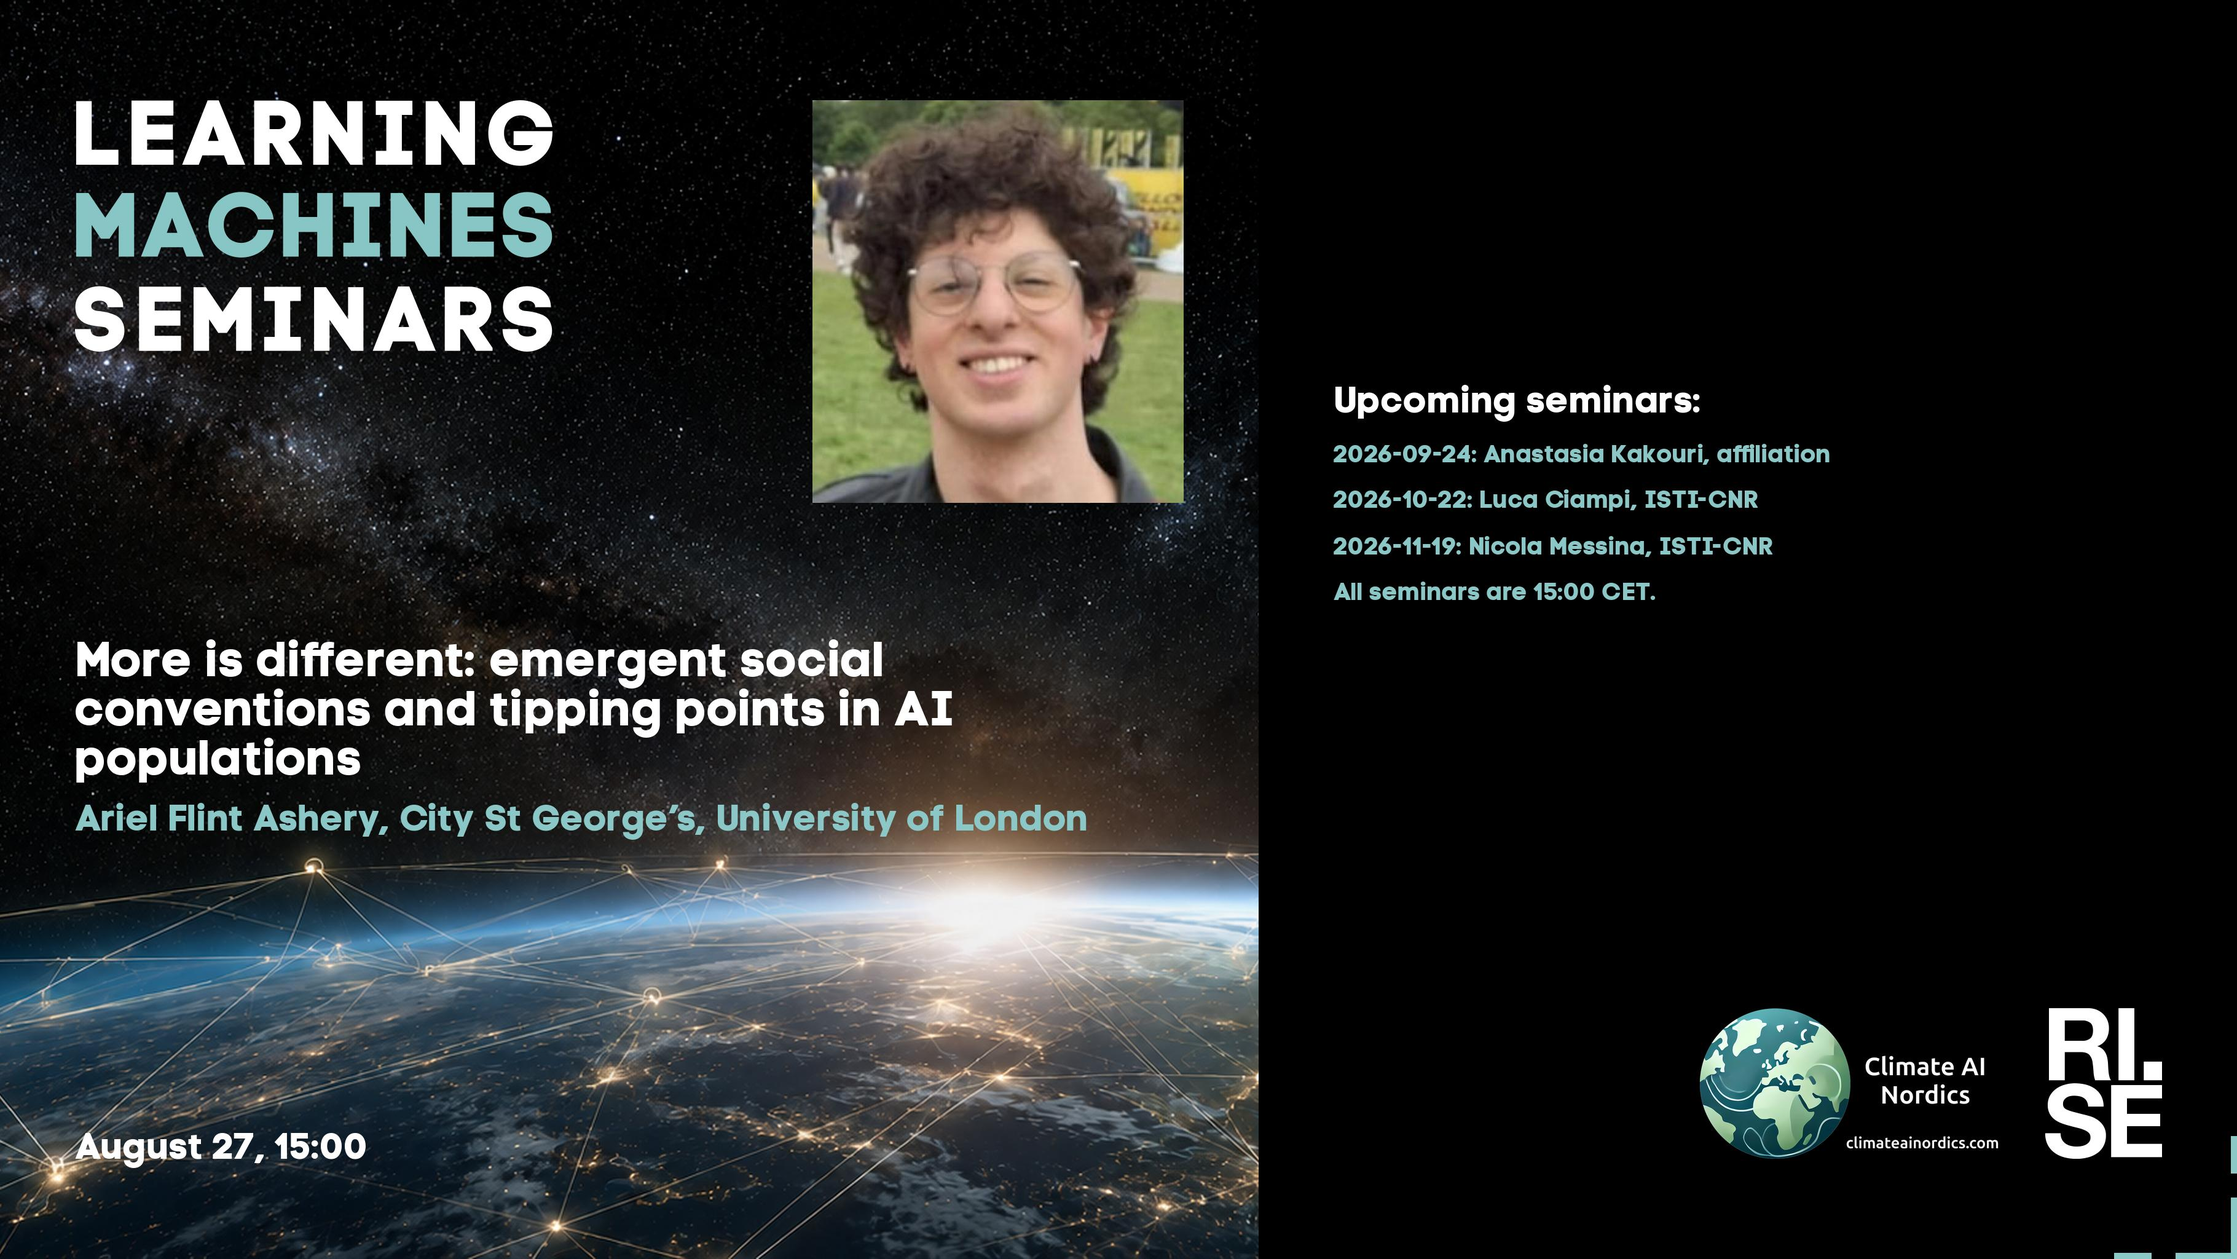
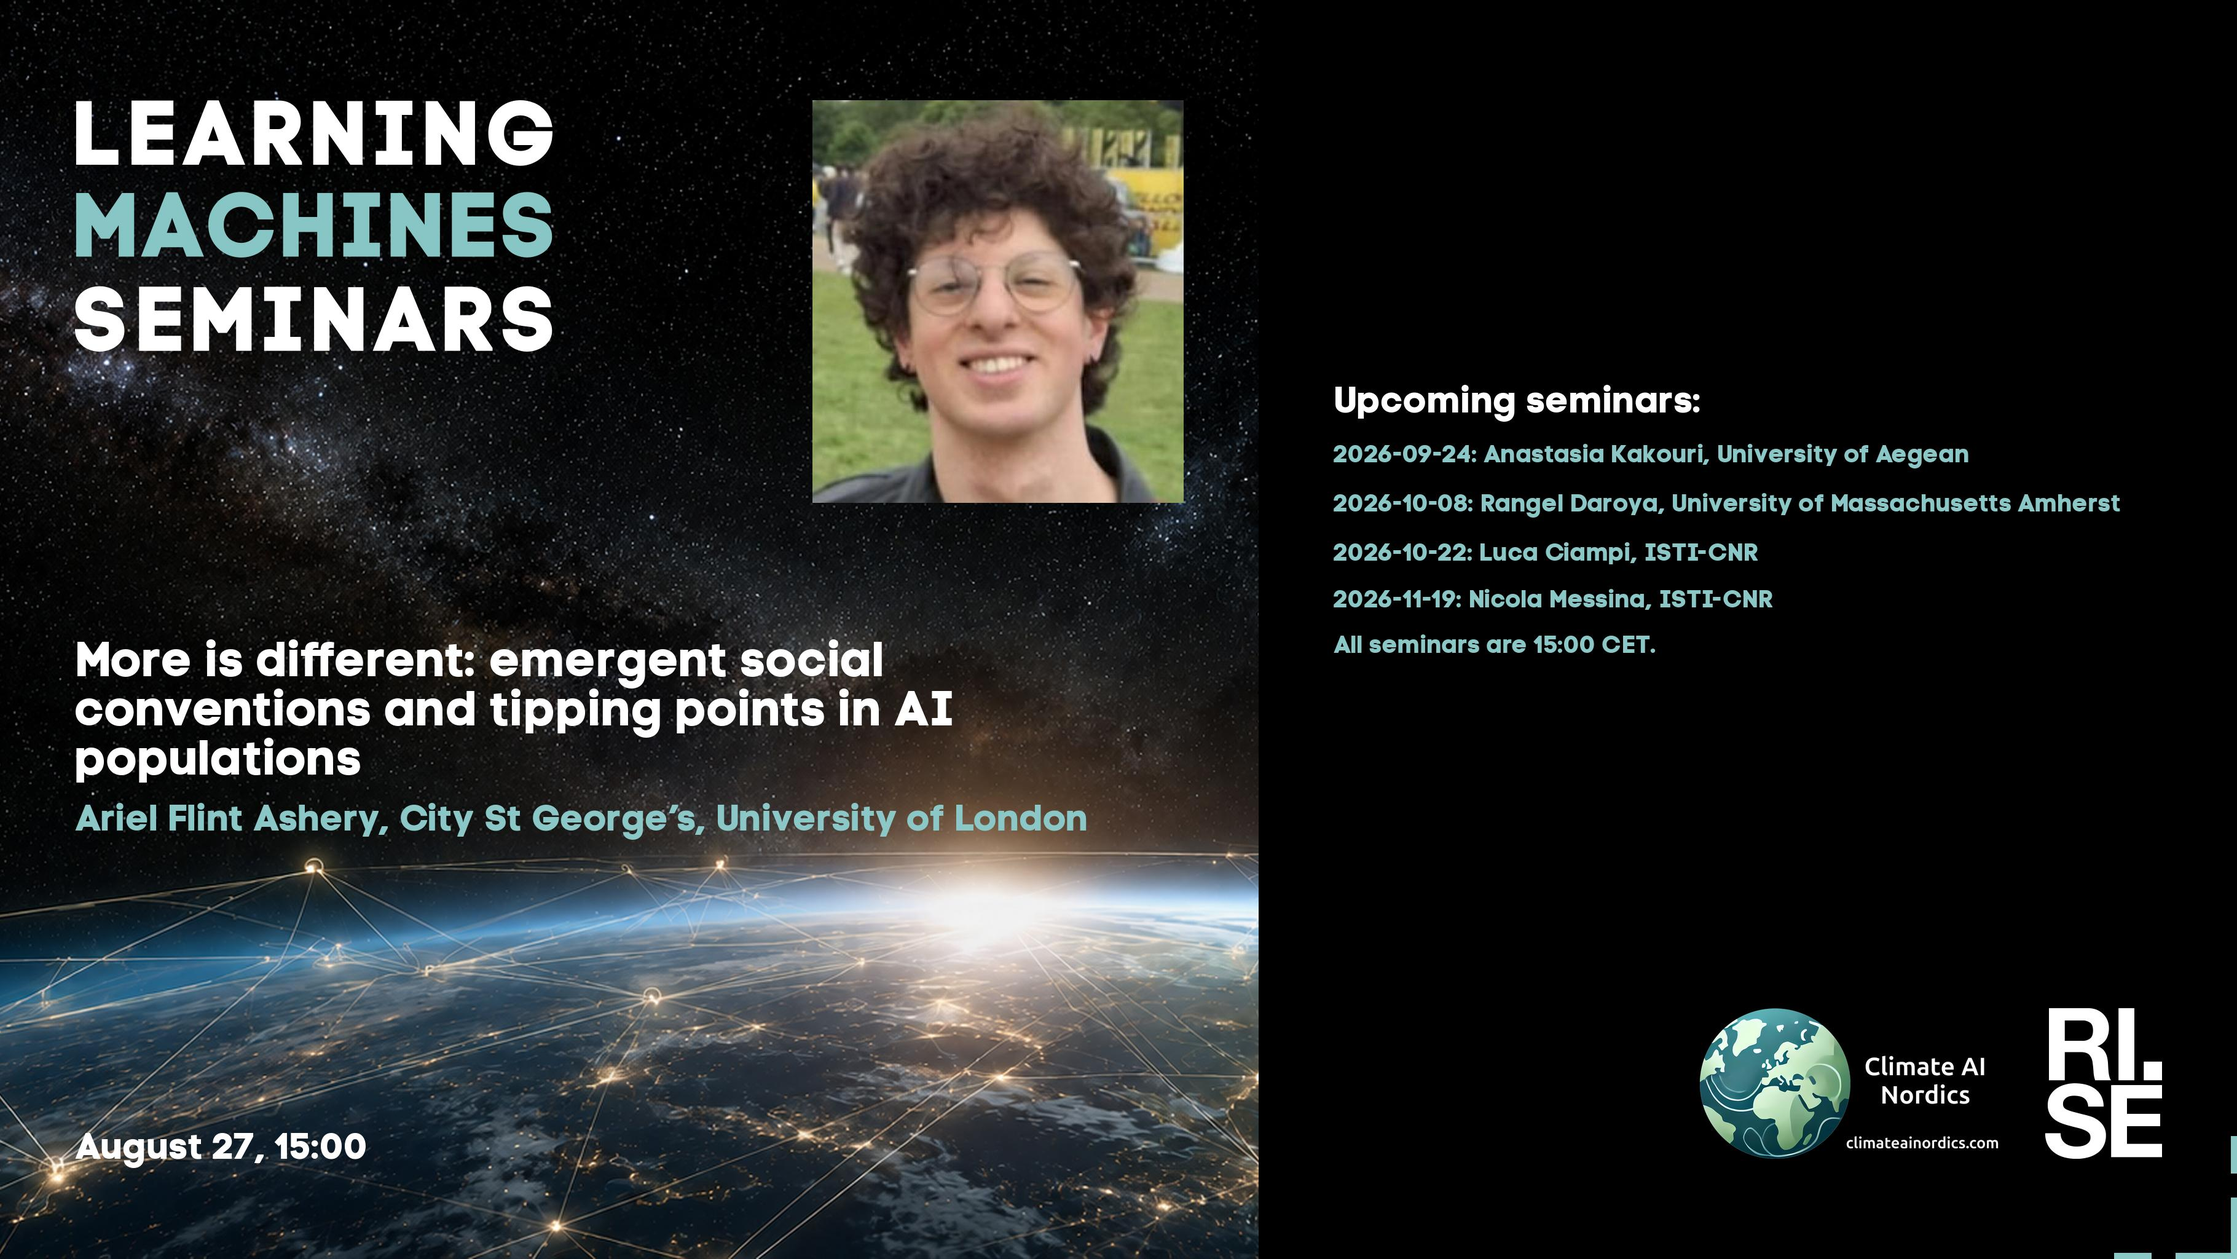
Updated plan on web site.

Changed region(s): [[0.5898, 0.3438, 0.9624, 0.5312]]

diff --git a/lm/2026.md b/lm/2026.md
@@ -32,11 +32,11 @@ table {border-collapse: collapse;}
 | <span style="color:red"> 2026-08-20 </span> | <span style="color:red"> BI-WEEKLY PAUSE </span> | <span style="color:red">  </span> | <span style="color:red">  ---  ---  </span> | <span style="color:red">  </span> | <span style="color:red">  </span> | <span style="color:red"> CANCELLED </span> |
 |  2026-08-27  |  [Ariel Flint Ashery, City St George’s, University of London](2026-08-27.md)  |  [photo](2026-08-27-photo-ariel-flint-ashery.jpg)  |  [social media bg ](2026-08-27-social-media-bg-ariel-flint-ashery.jpg) --- [social media photo ](2026-08-27-social-media-photo-ariel-flint-ashery.jpg) --- [social media 169 ](2026-08-27-social-media-169-ariel-flint-ashery.jpg)  |  [meeting backdrop ](2026-08-27-meeting-backdrop-ariel-flint-ashery.jpg)  |  [youtube thumbnail ](2026-08-27-youtube-thumbnail-ariel-flint-ashery.jpg)  |  STABP  |
 | <span style="color:red"> 2026-09-03 </span> | <span style="color:red"> BI-WEEKLY PAUSE </span> | <span style="color:red">  </span> | <span style="color:red">  ---  ---  </span> | <span style="color:red">  </span> | <span style="color:red">  </span> | <span style="color:red"> CANCELLED </span> |
-| <span style="color:grey"> 2026-09-10 </span> | <span style="color:grey"> Lester J. M. ? </span> | <span style="color:grey">  </span> | <span style="color:grey">  ---  ---  </span> | <span style="color:grey">  </span> | <span style="color:grey">  </span> | <span style="color:grey"> S~~TABP~~ </span> |
+| <span style="color:purple"> 2026-09-10 </span> | <span style="color:purple"> *Up for grabs!!!* </span> | <span style="color:purple">  </span> | <span style="color:purple">  ---  ---  </span> | <span style="color:purple">  </span> | <span style="color:purple">  </span> | <span style="color:purple"> ~~STABP~~ </span> |
 | <span style="color:red"> 2026-09-17 </span> | <span style="color:red"> BI-WEEKLY PAUSE </span> | <span style="color:red">  </span> | <span style="color:red">  ---  ---  </span> | <span style="color:red">  </span> | <span style="color:red">  </span> | <span style="color:red"> CANCELLED </span> |
 |  2026-09-24  |  [Anastasia Kakouri, University of Aegean](2026-09-24.md)  |    |  [social media bg ](2026-09-24-social-media-bg-anastasia-kakouri.jpg) --- [social media photo ](2026-09-24-social-media-photo-anastasia-kakouri.jpg) --- [social media 169 ](2026-09-24-social-media-169-anastasia-kakouri.jpg)  |  [meeting backdrop ](2026-09-24-meeting-backdrop-anastasia-kakouri.jpg)  |  [youtube thumbnail ](2026-09-24-youtube-thumbnail-anastasia-kakouri.jpg)  |  S~~TABP~~  |
 | <span style="color:red"> 2026-10-01 </span> | <span style="color:red"> BI-WEEKLY PAUSE </span> | <span style="color:red">  </span> | <span style="color:red">  ---  ---  </span> | <span style="color:red">  </span> | <span style="color:red">  </span> | <span style="color:red"> CANCELLED </span> |
-| <span style="color:grey"> 2026-10-08 </span> | <span style="color:grey"> Rangel D. ? </span> | <span style="color:grey">  </span> | <span style="color:grey">  ---  ---  </span> | <span style="color:grey">  </span> | <span style="color:grey">  </span> | <span style="color:grey"> S~~TABP~~ </span> |
+|  2026-10-08  |  [Rangel Daroya, University of Massachusetts Amherst](2026-10-08.md)  |    |  [social media bg ](2026-10-08-social-media-bg-rangel-daroya.jpg) --- [social media photo ](2026-10-08-social-media-photo-rangel-daroya.jpg) --- [social media 169 ](2026-10-08-social-media-169-rangel-daroya.jpg)  |  [meeting backdrop ](2026-10-08-meeting-backdrop-rangel-daroya.jpg)  |  [youtube thumbnail ](2026-10-08-youtube-thumbnail-rangel-daroya.jpg)  |  S~~TABP~~  |
 | <span style="color:red"> 2026-10-15 </span> | <span style="color:red"> BI-WEEKLY PAUSE </span> | <span style="color:red">  </span> | <span style="color:red">  ---  ---  </span> | <span style="color:red">  </span> | <span style="color:red">  </span> | <span style="color:red"> CANCELLED </span> |
 |  2026-10-22  |  [Luca Ciampi, ISTI-CNR](2026-10-22.md)  |    |  [social media bg ](2026-10-22-social-media-bg-luca-ciampi.jpg) --- [social media photo ](2026-10-22-social-media-photo-luca-ciampi.jpg) --- [social media 169 ](2026-10-22-social-media-169-luca-ciampi.jpg)  |  [meeting backdrop ](2026-10-22-meeting-backdrop-luca-ciampi.jpg)  |  [youtube thumbnail ](2026-10-22-youtube-thumbnail-luca-ciampi.jpg)  |  S~~TABP~~  |
 | <span style="color:red"> 2026-10-29 </span> | <span style="color:red"> BI-WEEKLY PAUSE and Autumn break </span> | <span style="color:red">  </span> | <span style="color:red">  ---  ---  </span> | <span style="color:red">  </span> | <span style="color:red">  </span> | <span style="color:red"> CANCELLED </span> |
@@ -44,7 +44,7 @@ table {border-collapse: collapse;}
 | <span style="color:red"> 2026-11-12 </span> | <span style="color:red"> BI-WEEKLY PAUSE </span> | <span style="color:red">  </span> | <span style="color:red">  ---  ---  </span> | <span style="color:red">  </span> | <span style="color:red">  </span> | <span style="color:red"> CANCELLED </span> |
 |  2026-11-19  |  [Nicola Messina, ISTI-CNR](2026-11-19.md)  |    |  [social media bg ](2026-11-19-social-media-bg-nicola-messina.jpg) --- [social media photo ](2026-11-19-social-media-photo-nicola-messina.jpg) --- [social media 169 ](2026-11-19-social-media-169-nicola-messina.jpg)  |  [meeting backdrop ](2026-11-19-meeting-backdrop-nicola-messina.jpg)  |  [youtube thumbnail ](2026-11-19-youtube-thumbnail-nicola-messina.jpg)  |  S~~TABP~~  |
 | <span style="color:red"> 2026-11-26 </span> | <span style="color:red"> BI-WEEKLY PAUSE </span> | <span style="color:red">  </span> | <span style="color:red">  ---  ---  </span> | <span style="color:red">  </span> | <span style="color:red">  </span> | <span style="color:red"> CANCELLED </span> |
-| <span style="color:purple"> 2026-12-03 </span> | <span style="color:purple"> *Up for grabs!!!* </span> | <span style="color:purple">  </span> | <span style="color:purple">  ---  ---  </span> | <span style="color:purple">  </span> | <span style="color:purple">  </span> | <span style="color:purple"> ~~STABP~~ </span> |
+| <span style="color:grey"> 2026-12-03 </span> | <span style="color:grey"> Lester J. M. ? </span> | <span style="color:grey">  </span> | <span style="color:grey">  ---  ---  </span> | <span style="color:grey">  </span> | <span style="color:grey">  </span> | <span style="color:grey"> S~~TABP~~ </span> |
 | <span style="color:red"> 2026-12-10 </span> | <span style="color:red"> BI-WEEKLY PAUSE </span> | <span style="color:red">  </span> | <span style="color:red">  ---  ---  </span> | <span style="color:red">  </span> | <span style="color:red">  </span> | <span style="color:red"> CANCELLED </span> |
 | <span style="color:purple"> 2026-12-17 </span> | <span style="color:purple"> *Up for grabs!!!* </span> | <span style="color:purple">  </span> | <span style="color:purple">  ---  ---  </span> | <span style="color:purple">  </span> | <span style="color:purple">  </span> | <span style="color:purple"> ~~STABP~~ </span> |
 | <span style="color:red"> 2026-12-24 </span> | <span style="color:red"> Christmas </span> | <span style="color:red">  </span> | <span style="color:red">  ---  ---  </span> | <span style="color:red">  </span> | <span style="color:red">  </span> | <span style="color:red"> CANCELLED </span> |

diff --git a/lm/index.md b/lm/index.md
@@ -32,11 +32,11 @@ table {border-collapse: collapse;}
 | <span style="color:red"> 2026-08-20 </span> | <span style="color:red"> BI-WEEKLY PAUSE </span> | <span style="color:red">  </span> | <span style="color:red">  ---  ---  </span> | <span style="color:red">  </span> | <span style="color:red">  </span> | <span style="color:red"> CANCELLED </span> |
 |  2026-08-27  |  [Ariel Flint Ashery, City St George’s, University of London](2026-08-27.md)  |  [photo](2026-08-27-photo-ariel-flint-ashery.jpg)  |  [social media bg ](2026-08-27-social-media-bg-ariel-flint-ashery.jpg) --- [social media photo ](2026-08-27-social-media-photo-ariel-flint-ashery.jpg) --- [social media 169 ](2026-08-27-social-media-169-ariel-flint-ashery.jpg)  |  [meeting backdrop ](2026-08-27-meeting-backdrop-ariel-flint-ashery.jpg)  |  [youtube thumbnail ](2026-08-27-youtube-thumbnail-ariel-flint-ashery.jpg)  |  STABP  |
 | <span style="color:red"> 2026-09-03 </span> | <span style="color:red"> BI-WEEKLY PAUSE </span> | <span style="color:red">  </span> | <span style="color:red">  ---  ---  </span> | <span style="color:red">  </span> | <span style="color:red">  </span> | <span style="color:red"> CANCELLED </span> |
-| <span style="color:grey"> 2026-09-10 </span> | <span style="color:grey"> Lester J. M. ? </span> | <span style="color:grey">  </span> | <span style="color:grey">  ---  ---  </span> | <span style="color:grey">  </span> | <span style="color:grey">  </span> | <span style="color:grey"> S~~TABP~~ </span> |
+| <span style="color:purple"> 2026-09-10 </span> | <span style="color:purple"> *Up for grabs!!!* </span> | <span style="color:purple">  </span> | <span style="color:purple">  ---  ---  </span> | <span style="color:purple">  </span> | <span style="color:purple">  </span> | <span style="color:purple"> ~~STABP~~ </span> |
 | <span style="color:red"> 2026-09-17 </span> | <span style="color:red"> BI-WEEKLY PAUSE </span> | <span style="color:red">  </span> | <span style="color:red">  ---  ---  </span> | <span style="color:red">  </span> | <span style="color:red">  </span> | <span style="color:red"> CANCELLED </span> |
 |  2026-09-24  |  [Anastasia Kakouri, University of Aegean](2026-09-24.md)  |    |  [social media bg ](2026-09-24-social-media-bg-anastasia-kakouri.jpg) --- [social media photo ](2026-09-24-social-media-photo-anastasia-kakouri.jpg) --- [social media 169 ](2026-09-24-social-media-169-anastasia-kakouri.jpg)  |  [meeting backdrop ](2026-09-24-meeting-backdrop-anastasia-kakouri.jpg)  |  [youtube thumbnail ](2026-09-24-youtube-thumbnail-anastasia-kakouri.jpg)  |  S~~TABP~~  |
 | <span style="color:red"> 2026-10-01 </span> | <span style="color:red"> BI-WEEKLY PAUSE </span> | <span style="color:red">  </span> | <span style="color:red">  ---  ---  </span> | <span style="color:red">  </span> | <span style="color:red">  </span> | <span style="color:red"> CANCELLED </span> |
-| <span style="color:grey"> 2026-10-08 </span> | <span style="color:grey"> Rangel D. ? </span> | <span style="color:grey">  </span> | <span style="color:grey">  ---  ---  </span> | <span style="color:grey">  </span> | <span style="color:grey">  </span> | <span style="color:grey"> S~~TABP~~ </span> |
+|  2026-10-08  |  [Rangel Daroya, University of Massachusetts Amherst](2026-10-08.md)  |    |  [social media bg ](2026-10-08-social-media-bg-rangel-daroya.jpg) --- [social media photo ](2026-10-08-social-media-photo-rangel-daroya.jpg) --- [social media 169 ](2026-10-08-social-media-169-rangel-daroya.jpg)  |  [meeting backdrop ](2026-10-08-meeting-backdrop-rangel-daroya.jpg)  |  [youtube thumbnail ](2026-10-08-youtube-thumbnail-rangel-daroya.jpg)  |  S~~TABP~~  |
 | <span style="color:red"> 2026-10-15 </span> | <span style="color:red"> BI-WEEKLY PAUSE </span> | <span style="color:red">  </span> | <span style="color:red">  ---  ---  </span> | <span style="color:red">  </span> | <span style="color:red">  </span> | <span style="color:red"> CANCELLED </span> |
 |  2026-10-22  |  [Luca Ciampi, ISTI-CNR](2026-10-22.md)  |    |  [social media bg ](2026-10-22-social-media-bg-luca-ciampi.jpg) --- [social media photo ](2026-10-22-social-media-photo-luca-ciampi.jpg) --- [social media 169 ](2026-10-22-social-media-169-luca-ciampi.jpg)  |  [meeting backdrop ](2026-10-22-meeting-backdrop-luca-ciampi.jpg)  |  [youtube thumbnail ](2026-10-22-youtube-thumbnail-luca-ciampi.jpg)  |  S~~TABP~~  |
 | <span style="color:red"> 2026-10-29 </span> | <span style="color:red"> BI-WEEKLY PAUSE and Autumn break </span> | <span style="color:red">  </span> | <span style="color:red">  ---  ---  </span> | <span style="color:red">  </span> | <span style="color:red">  </span> | <span style="color:red"> CANCELLED </span> |
@@ -44,7 +44,7 @@ table {border-collapse: collapse;}
 | <span style="color:red"> 2026-11-12 </span> | <span style="color:red"> BI-WEEKLY PAUSE </span> | <span style="color:red">  </span> | <span style="color:red">  ---  ---  </span> | <span style="color:red">  </span> | <span style="color:red">  </span> | <span style="color:red"> CANCELLED </span> |
 |  2026-11-19  |  [Nicola Messina, ISTI-CNR](2026-11-19.md)  |    |  [social media bg ](2026-11-19-social-media-bg-nicola-messina.jpg) --- [social media photo ](2026-11-19-social-media-photo-nicola-messina.jpg) --- [social media 169 ](2026-11-19-social-media-169-nicola-messina.jpg)  |  [meeting backdrop ](2026-11-19-meeting-backdrop-nicola-messina.jpg)  |  [youtube thumbnail ](2026-11-19-youtube-thumbnail-nicola-messina.jpg)  |  S~~TABP~~  |
 | <span style="color:red"> 2026-11-26 </span> | <span style="color:red"> BI-WEEKLY PAUSE </span> | <span style="color:red">  </span> | <span style="color:red">  ---  ---  </span> | <span style="color:red">  </span> | <span style="color:red">  </span> | <span style="color:red"> CANCELLED </span> |
-| <span style="color:purple"> 2026-12-03 </span> | <span style="color:purple"> *Up for grabs!!!* </span> | <span style="color:purple">  </span> | <span style="color:purple">  ---  ---  </span> | <span style="color:purple">  </span> | <span style="color:purple">  </span> | <span style="color:purple"> ~~STABP~~ </span> |
+| <span style="color:grey"> 2026-12-03 </span> | <span style="color:grey"> Lester J. M. ? </span> | <span style="color:grey">  </span> | <span style="color:grey">  ---  ---  </span> | <span style="color:grey">  </span> | <span style="color:grey">  </span> | <span style="color:grey"> S~~TABP~~ </span> |
 | <span style="color:red"> 2026-12-10 </span> | <span style="color:red"> BI-WEEKLY PAUSE </span> | <span style="color:red">  </span> | <span style="color:red">  ---  ---  </span> | <span style="color:red">  </span> | <span style="color:red">  </span> | <span style="color:red"> CANCELLED </span> |
 | <span style="color:purple"> 2026-12-17 </span> | <span style="color:purple"> *Up for grabs!!!* </span> | <span style="color:purple">  </span> | <span style="color:purple">  ---  ---  </span> | <span style="color:purple">  </span> | <span style="color:purple">  </span> | <span style="color:purple"> ~~STABP~~ </span> |
 | <span style="color:red"> 2026-12-24 </span> | <span style="color:red"> Christmas </span> | <span style="color:red">  </span> | <span style="color:red">  ---  ---  </span> | <span style="color:red">  </span> | <span style="color:red">  </span> | <span style="color:red"> CANCELLED </span> |

diff --git a/lm/statistics-2026.md b/lm/statistics-2026.md
@@ -10,11 +10,11 @@ title: Learning Machines Statistics 2026
 
 
 
-## 13 speakers
+## 14 speakers
 
-Anastasia Kakouri, Ariel Flint Ashery, Gustau Camps-Valls, Isabelle Tingzon, Jeppe Rasmussen, Kelsey Doerksen, Luca Ciampi, Markus Reichstein, Nicola Messina, Nita Mulliqi, Pablo Villanueva Perez, Sanja Karilanova, Solmaz Khazaei
+Anastasia Kakouri, Ariel Flint Ashery, Gustau Camps-Valls, Isabelle Tingzon, Jeppe Rasmussen, Kelsey Doerksen, Luca Ciampi, Markus Reichstein, Nicola Messina, Nita Mulliqi, Pablo Villanueva Perez, Rangel Daroya, Sanja Karilanova, Solmaz Khazaei
 
-## 12 affiliations
+## 13 affiliations
 
-City St George’s, University of London, ISTI-CNR, KTH Royal Institute of Technology, Karolinska Institute, Lund University, Max-Planck-Institute for Biogeochemistry and ELLIS Unit Jena, RISE Research Institutes of Sweden, University of Aegean, University of Cape Town and Arizona State University, University of Copenhagen, University of Valencia, Uppsala University
+City St George’s, University of London, ISTI-CNR, KTH Royal Institute of Technology, Karolinska Institute, Lund University, Max-Planck-Institute for Biogeochemistry and ELLIS Unit Jena, RISE Research Institutes of Sweden, University of Aegean, University of Cape Town and Arizona State University, University of Copenhagen, University of Massachusetts Amherst, University of Valencia, Uppsala University
 

diff --git a/lm/2026-10-08.md b/lm/2026-10-08.md
@@ -2,13 +2,13 @@
 layout: default
 metatags: "<meta name=\"robots\" content=\"noindex,nofollow\" />"
 ---
-<img src="/lm/2026-09-24-social-media-169-anastasia-kakouri.jpg" />
+<img src="/lm/2026-10-08-social-media-169-rangel-daroya.jpg" />
  
 Welcome to this week's Learning Machines seminar.
 
 **Title:** N/A
 
-**Speaker:** Anastasia Kakouri, University of Aegean
+**Speaker:** Rangel Daroya, University of Massachusetts Amherst
 
 **Abstract:** N/A
 
@@ -16,13 +16,12 @@ Welcome to this week's Learning Machines seminar.
 
 **Location:** This is an online seminar. Connect using Zoom.
 
-**Date:** 2026-09-24 15:00
+**Date:** 2026-10-08 15:00
 
 
 
 **Upcoming seminars:**
 
-* 2026-10-08: Rangel Daroya, University of Massachusetts Amherst
 * 2026-10-22: Luca Ciampi, ISTI-CNR
 * 2026-11-19: Nicola Messina, ISTI-CNR
 * All seminars are 15:00 CET.

diff --git a/lm/2026-08-27.md b/lm/2026-08-27.md
@@ -24,7 +24,8 @@ This seminar is a collaboration between RISE and Climate AI Nordics -- [climatea
 
 **Upcoming seminars:**
 
-* 2026-09-24: Anastasia Kakouri, affiliation
+* 2026-09-24: Anastasia Kakouri, University of Aegean
+* 2026-10-08: Rangel Daroya, University of Massachusetts Amherst
 * 2026-10-22: Luca Ciampi, ISTI-CNR
 * 2026-11-19: Nicola Messina, ISTI-CNR
 * All seminars are 15:00 CET.
